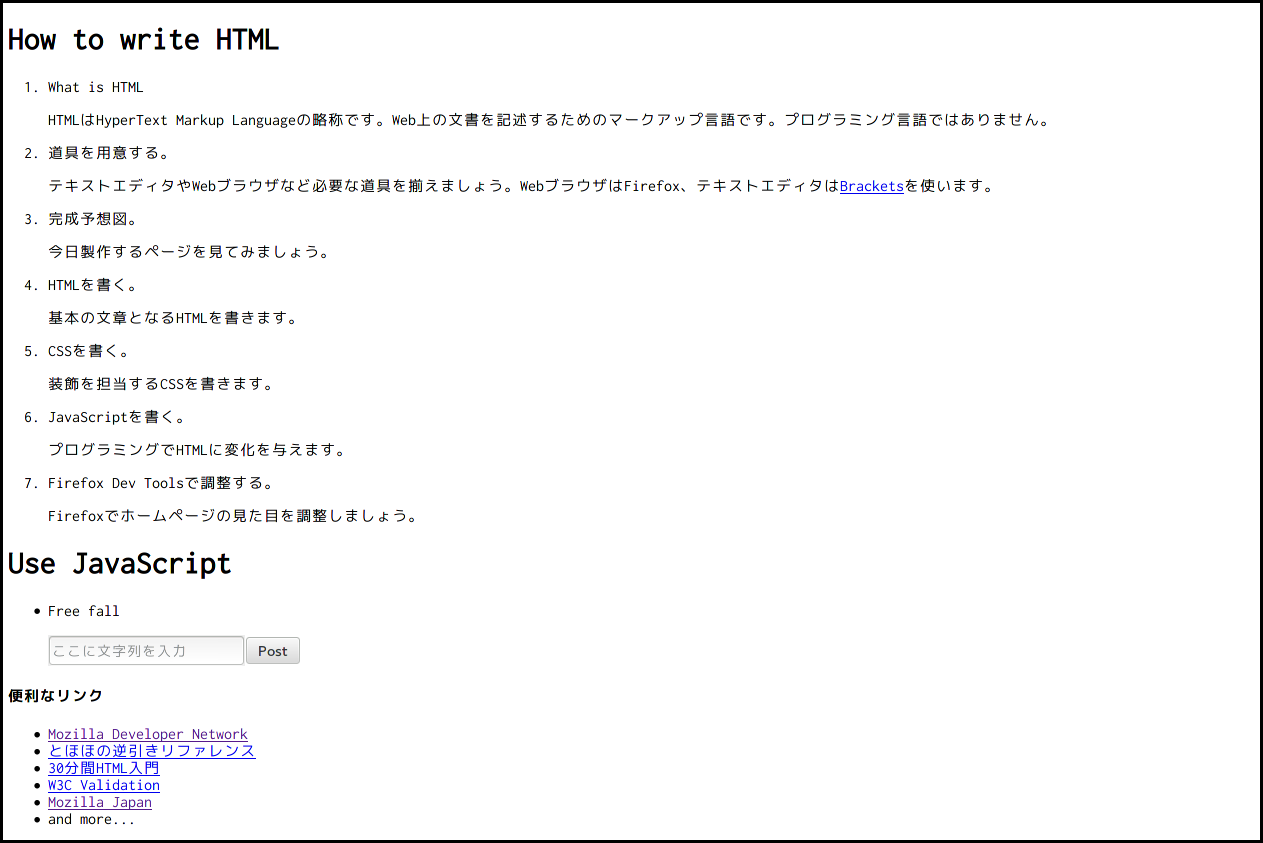
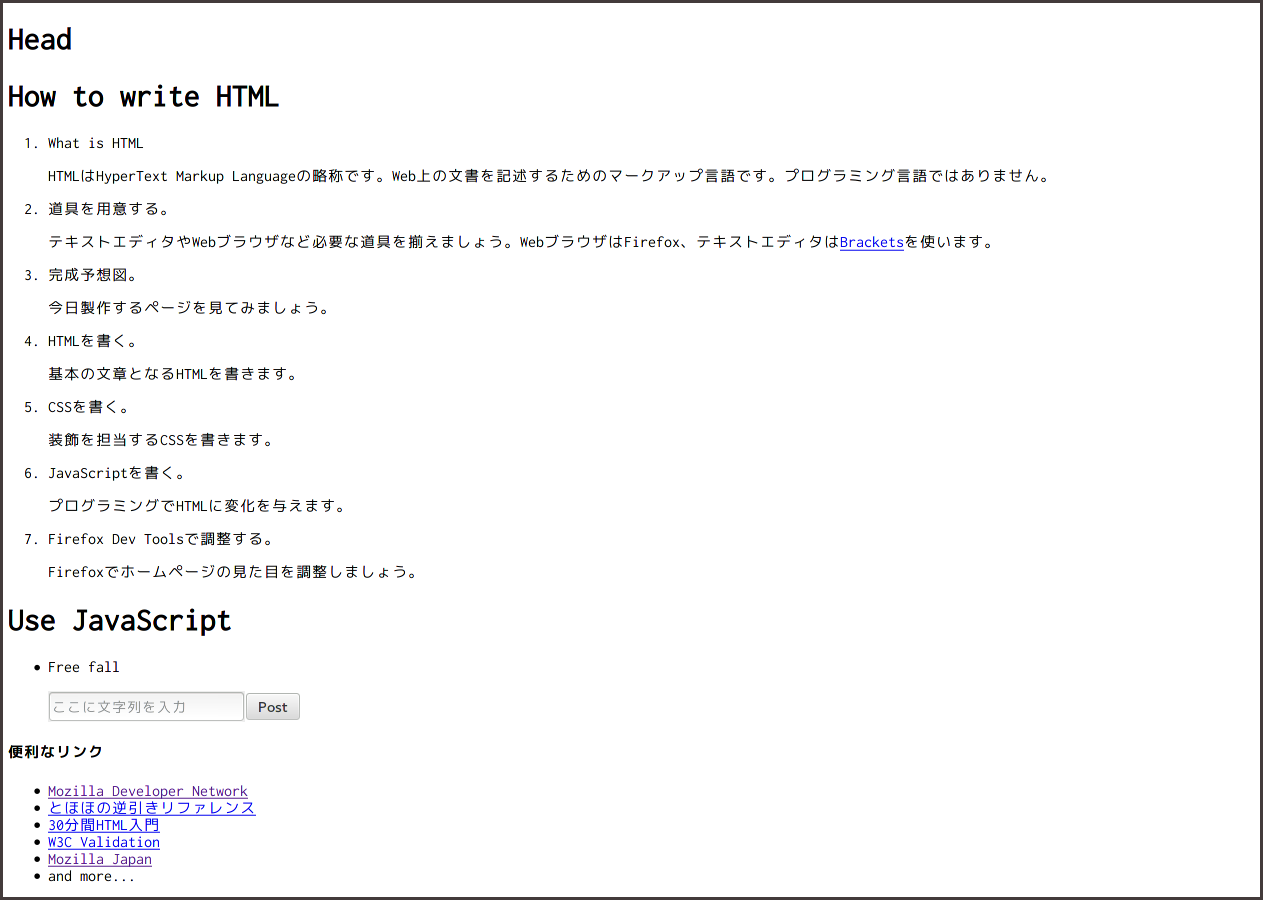
html paragraph prototype completed

Changed region(s): [[0.0, 0.0, 1.0, 1.0]]

diff --git a/proto/html_only.html b/proto/html_only.html
@@ -9,6 +9,7 @@
 <div id="wrapper">
   <div id="main">
     <div id="head">
+    <h1>Head</h2>
     </div>
     <div id="content">
       <h1>How to write HTML</h1>

diff --git a/lecture.md b/lecture.md
@@ -18,4 +18,26 @@
 
  ![htmlのみの場合](figure/figure1.png)
  上のテストページはprotoフォルダ内にある、htmlファイル一つだけで出来ています。
- ウェブページで見えているものは、基本的に全て<hoge>~</hoge>の様なhtmlファイル上のタグにを用いて表されています。
+ ウェブページで見えているものは、基本的に全て<hoge>~</hoge>の様なhtmlファイル上のタグを用いて表されています。
+
+ htmlタグは、<hoge>~</hoge>の"hoge"の部分がタグ名となっており、タグ名によって実際にウェブページとしての表現が変わります。
+ 
+ 基本的なhtmlタグを以下にまとめましたので、覚えておいて下さい。
+
+ - htmlタグ:htmlのバージョン情報や、エンコードの指定が可能なタグです。
+ - bodyタグ:このタグの中の物がウェブページとして表示されます。
+ - headタグ:ホームページのタイトルや、アイコン等の指定が出来ます。このタグ内で他のファイルを呼び出す事も出来ます。
+ - divタグ:他のタグを中に収納する役割を持つタグ、例外なくほぼ全てのウェブページで使用されます。
+ - olタグ:Ordered Listの略で、箇条書きを表す事が出来ます。liタグを使うことで箇条書きにする文章を書くことが出来ます。
+ - aタグ:他のウェブページへのリンクを貼る事が出来ます。
+ - imgタグ:画像を貼る事が出来ます。
+ - h1~h6タグ:見出しを表します。
+ - pタグ:段落を表します。
+
+ div要素を用いる事でウェブページの骨組みを作る事が出来ますが、実際に先程のページも以下の様にdivタグで骨組みが作られています。
+ ![テストページのdivタグ](figure/figure2.png)
+
+ このテストページでは、左側に表示したい部分をsidebarと言うidでdivタグを用いて表現し、ページのタイトル、本文、コメント欄をdivタグhead,content,formとして表現しています。sidebarは左側ではなく他のタグと同様に並んでしまっていますが、これは後のcssを用いる事で左側に配置する事が出来ます。
+ 
+ それでは引き続いて、cssによるウェブページの整形をしてみましょう。
+
